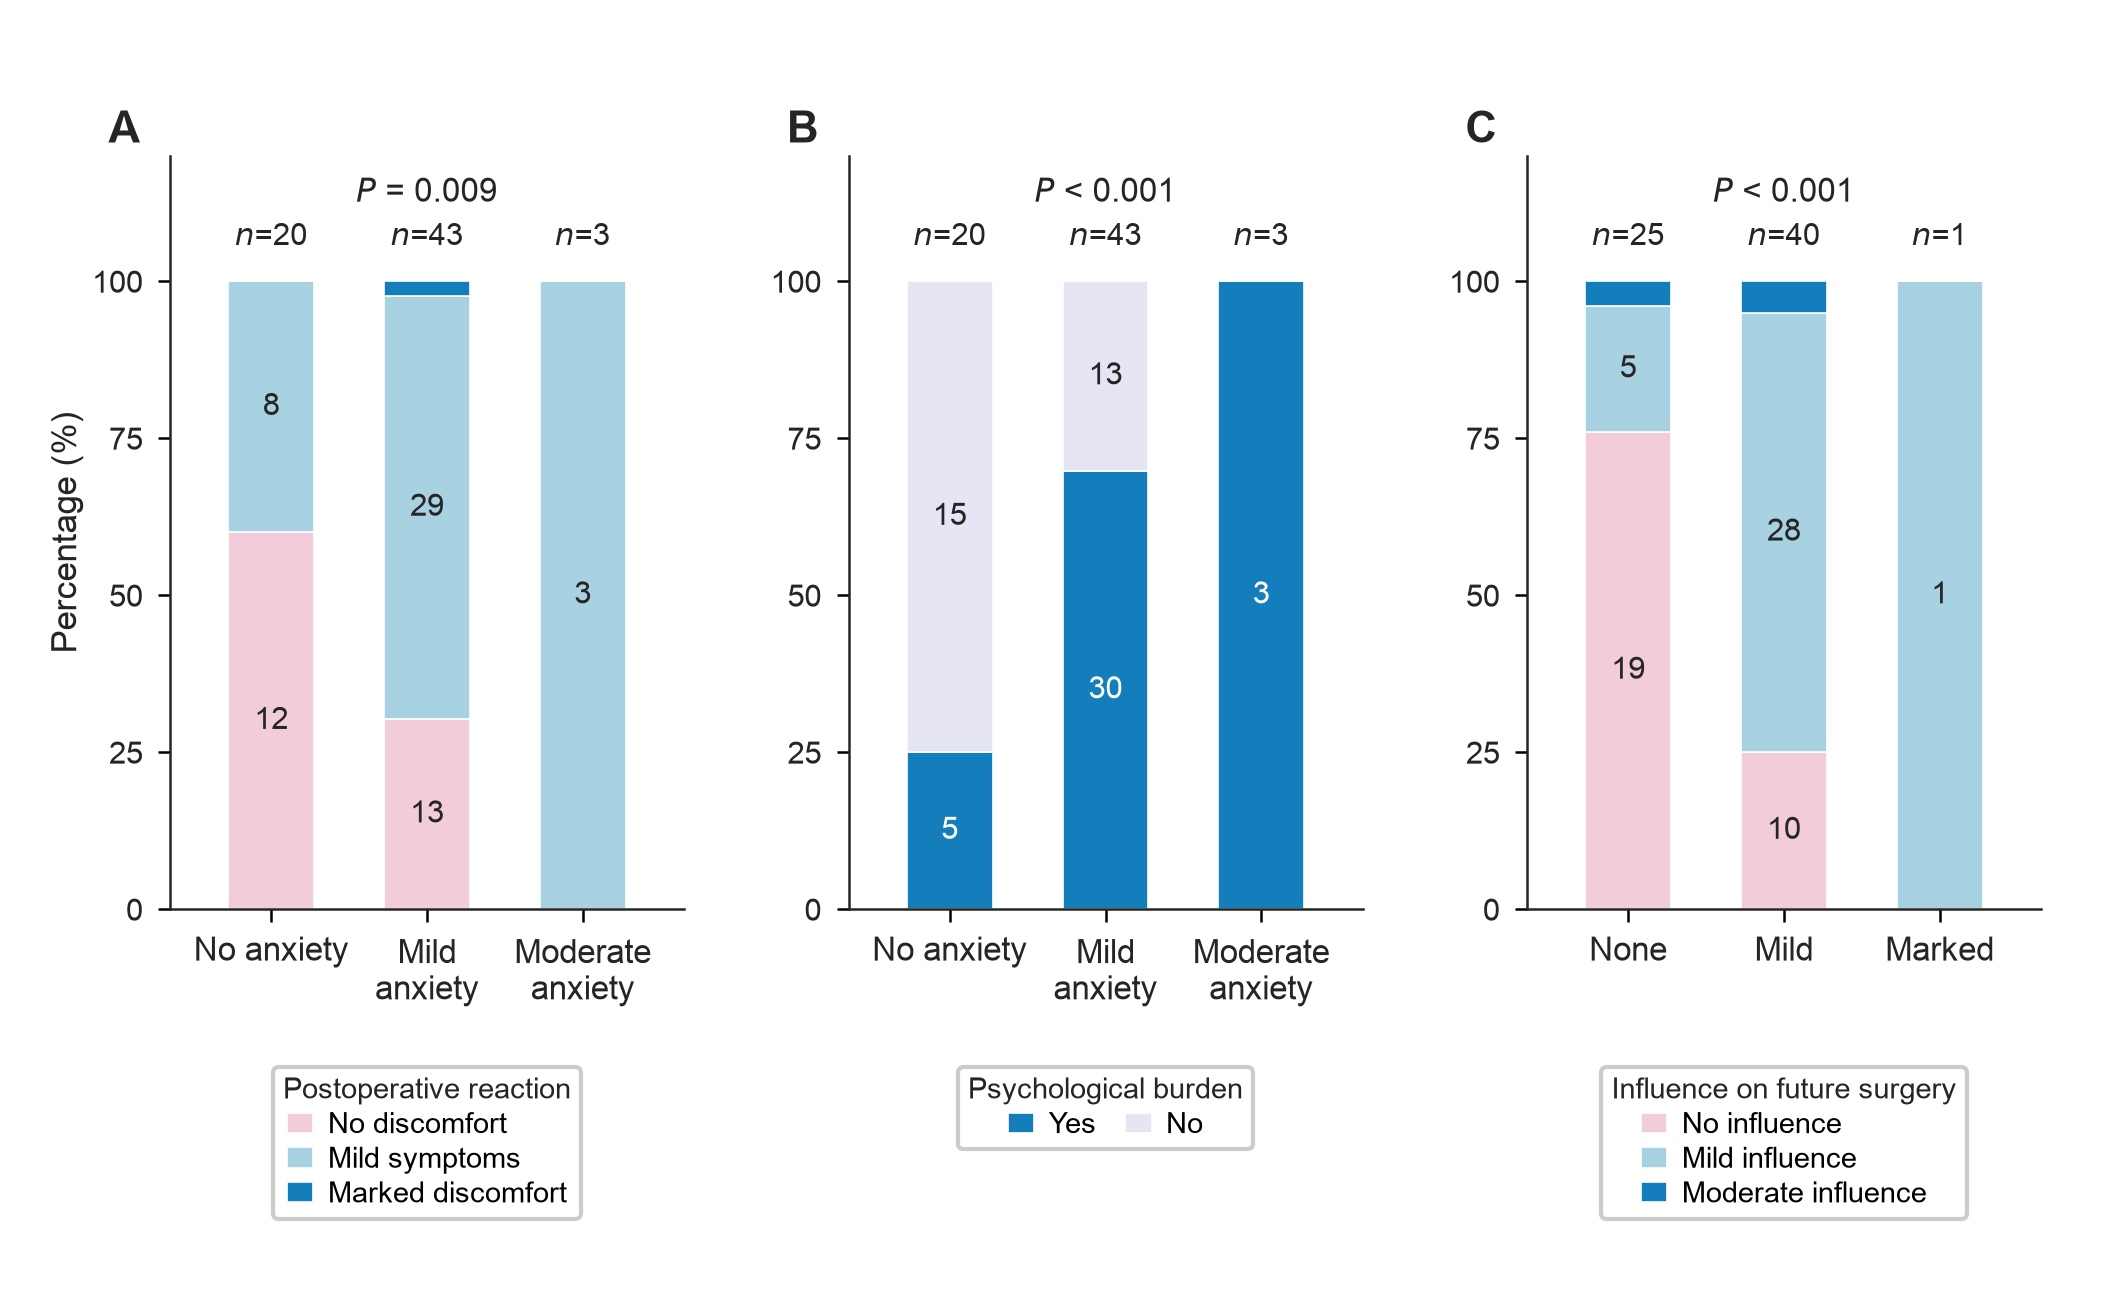
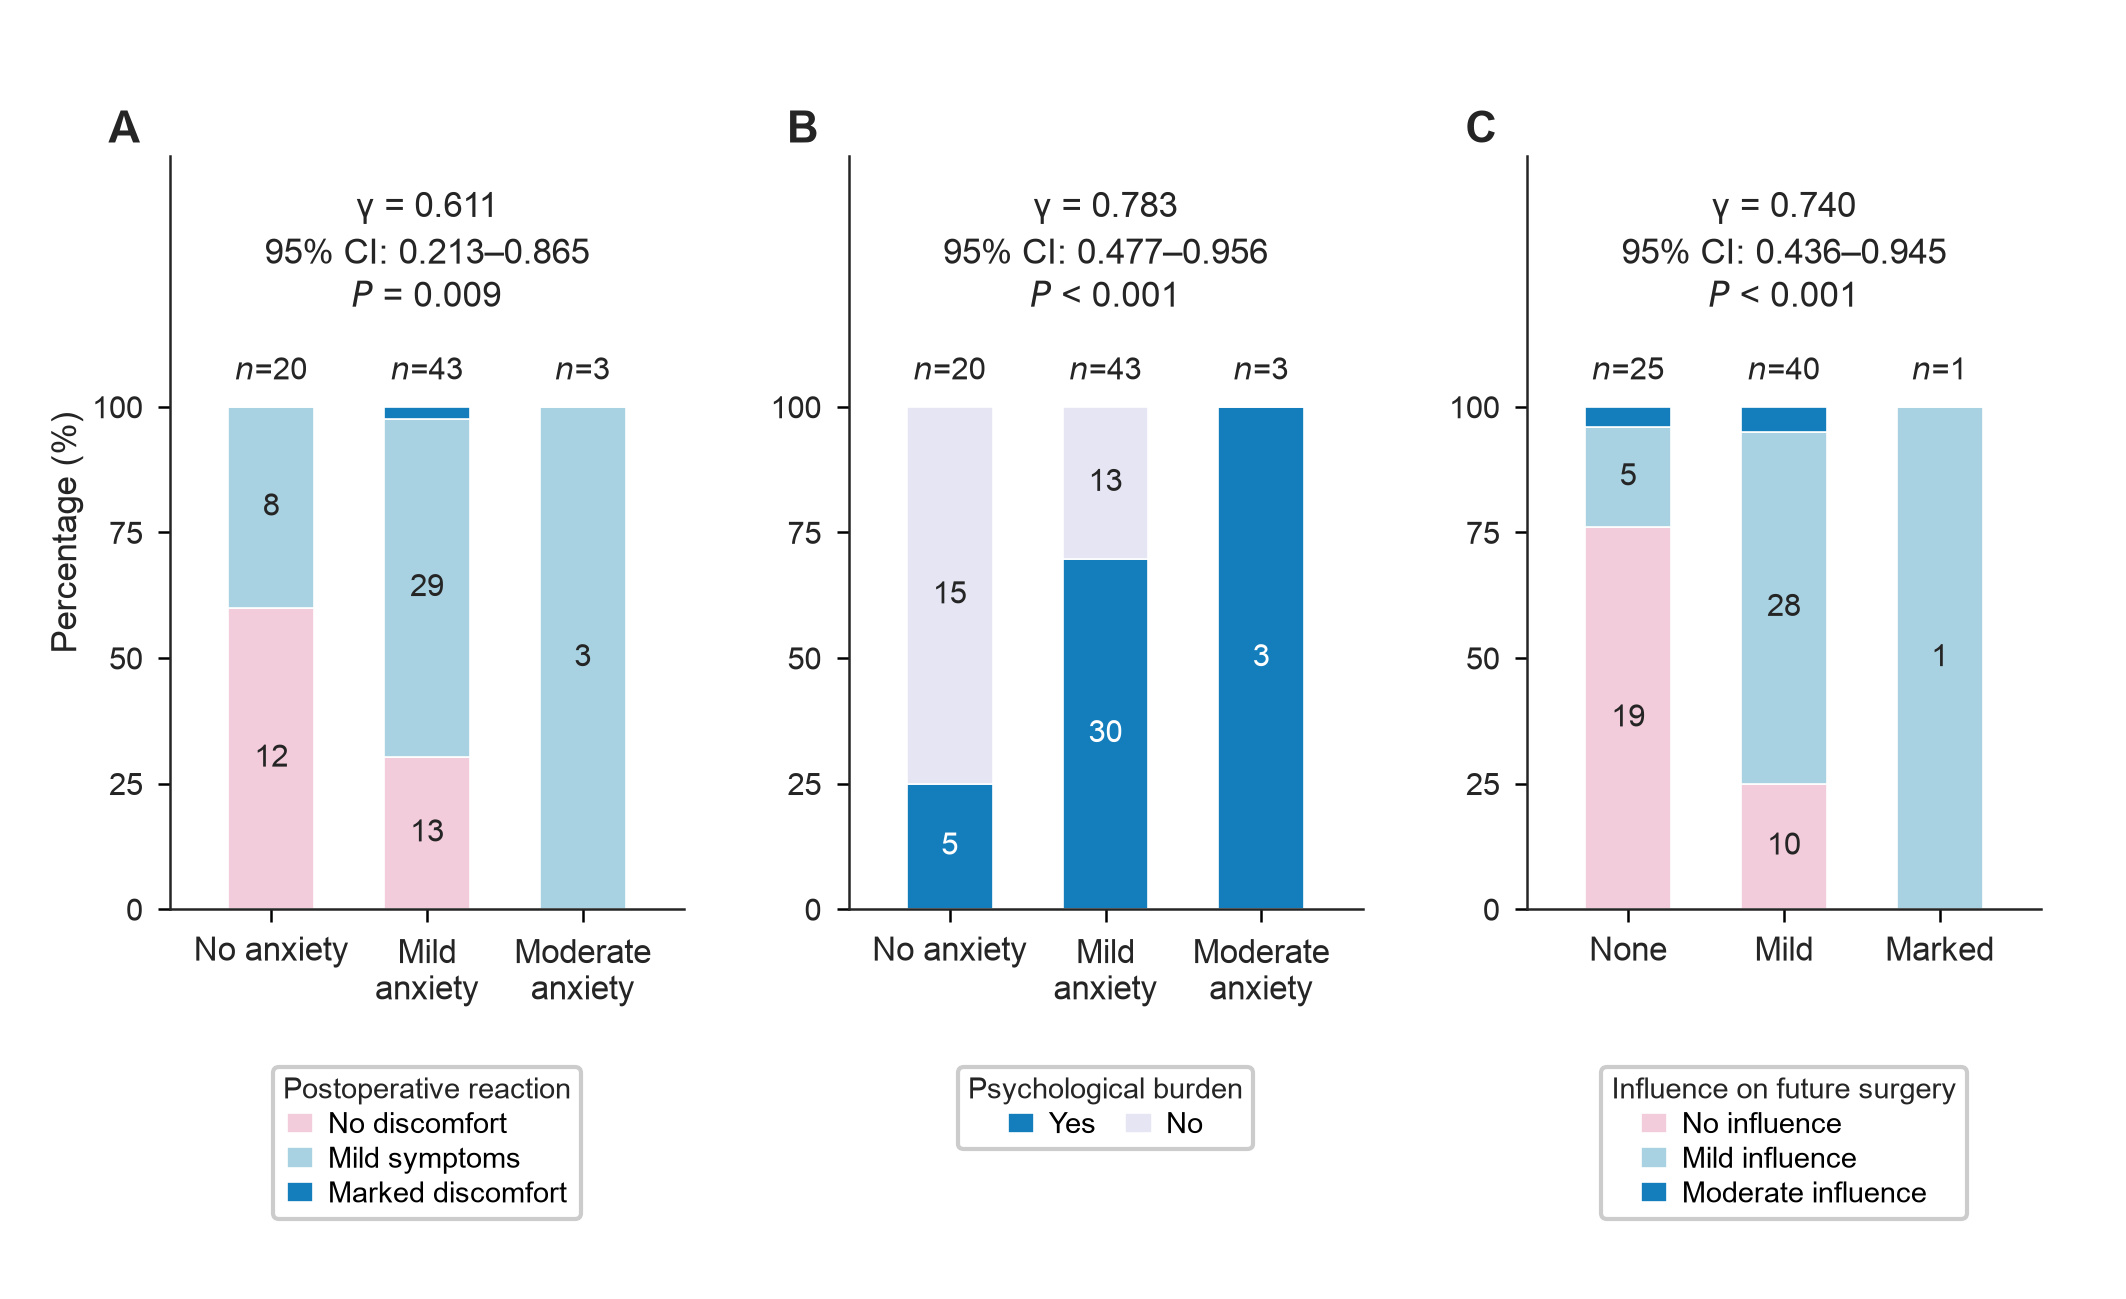
5、6改好了

diff --git a/currentversion/results/Figure_3.py b/currentversion/results/Figure_3.py
@@ -1,9 +1,12 @@
 import os
 import csv
 from collections import Counter
+import matplotlib
+matplotlib.use("Agg")
 import matplotlib.pyplot as plt
 import numpy as np
 from scipy.stats import chi2
+from ordinal_associations import gamma, bootstrap_ci, RANDOM_SEED
 
 # ==================== PARAMETERS ====================
 
@@ -21,6 +24,7 @@ DPI         = 300
 TARGET_W_PX = 2126
 
 LABELS = ['A', 'B', 'C']
+STAT_FONT_SIZE = 8.5
 
 # ==================== DATA LOADING ====================
 
@@ -90,6 +94,12 @@ def linear_by_linear_p(x, y):
 p_a = linear_by_linear_p(np.array(anx_score), np.array(post_score))
 p_b = linear_by_linear_p(np.array(anx_score), np.array(psych_score))
 p_c = linear_by_linear_p(np.array(post_score), np.array(fs_score))
+
+rng = np.random.default_rng(RANDOM_SEED)
+association_stats = []
+for x_scores, y_scores in [(anx_score, post_score), (anx_score, psych_score), (post_score, fs_score)]:
+    x_scores, y_scores = np.array(x_scores), np.array(y_scores)
+    association_stats.append((gamma(x_scores, y_scores), bootstrap_ci(x_scores, y_scores, rng)))
 
 # ==================== CROSS-TAB DATA ====================
 
@@ -193,18 +203,20 @@ for i, pn in enumerate(panels):
         ax.text(xi, 107, f'$n$={row_total}', ha='center', va='center',
                 fontsize=7.5, color=TEXT_CLR)
 
-    # --- p-value above n=XX labels, centered in panel ---
+    # --- Association estimates above the group totals ---
     p_val = pn['p']
     if p_val < 0.001:
         p_text = r'$P$ < 0.001'
     else:
         p_text = f'$P$ = {p_val:.3f}'
-    ax.text((n_rows - 1) / 2, 114, p_text, ha='center', va='center',
-            fontsize=8, color=TEXT_CLR)
+    gamma_value, ci = association_stats[i]
+    stats_text = f'γ = {gamma_value:.3f}\n95% CI: {ci[0]:.3f}–{ci[1]:.3f}\n{p_text}'
+    ax.text((n_rows - 1) / 2, 131, stats_text, ha='center', va='center',
+            fontsize=STAT_FONT_SIZE, linespacing=1.3, color=TEXT_CLR)
 
     # --- Axes formatting ---
     ax.set_xlim(-0.65, n_rows - 0.35)
-    ax.set_ylim(0, 120)
+    ax.set_ylim(0, 150)
     ax.set_xticks(x)
     ax.set_xticklabels(pn['row_labels'], fontsize=8, color=TEXT_CLR)
     ax.set_yticks([0, 25, 50, 75, 100])
@@ -245,8 +257,8 @@ for i, pn in enumerate(panels):
 
 # ==================== SAVE ====================
 
-out = os.path.join(os.path.dirname(os.path.abspath(__file__)), '..', 'figures', 'Figure_3.png')
-fig.savefig(out, dpi=DPI, format='png', facecolor=BG, edgecolor='none')
+out = os.path.join(os.path.dirname(os.path.abspath(__file__)), '..', 'figures', 'Figure_3.jpg')
+fig.savefig(out, dpi=DPI, format='jpeg', facecolor=BG, edgecolor='none', pil_kwargs={'quality': 95, 'subsampling': 0})
 plt.close()
 
 print(f'Saved {out}')

diff --git a/currentversion/results/Figure_2.py b/currentversion/results/Figure_2.py
@@ -26,7 +26,7 @@ FACTORS = [
     ('First periodontal surgery (Q7)', 'First periodontal surgery\n(yes vs no)'),
 ]
 RESULTS = Path(__file__).with_name('regression_results.json')
-OUTPUT = RESULTS.parent.parent / 'figures' / 'Figure_2.png'
+OUTPUT = RESULTS.parent.parent / 'figures' / 'Figure_2.jpg'
 
 # ==================== DATA ====================
 models = json.loads(RESULTS.read_text())['models']
@@ -87,6 +87,7 @@ fig.legend(handles=[
 
 # ==================== SAVE ====================
 OUTPUT.parent.mkdir(exist_ok=True)
-fig.savefig(OUTPUT, dpi=DPI, facecolor=BACKGROUND)
+fig.savefig(OUTPUT, dpi=DPI, format='jpeg', facecolor=BACKGROUND,
+            pil_kwargs={'quality': 95, 'subsampling': 0})
 plt.close(fig)
 print(f'Saved {OUTPUT}')

diff --git a/currentversion/results/Figure_1.py b/currentversion/results/Figure_1.py
@@ -199,7 +199,7 @@ ax.set_ylim(0.12, 0.98)
 
 # ==================== SAVE ====================
 
-out = os.path.join(os.path.dirname(os.path.abspath(__file__)), '..', 'figures', 'Figure_1.png')
-fig.savefig(out, dpi=DPI, format='png', facecolor=BG, edgecolor='none')
+out = os.path.join(os.path.dirname(os.path.abspath(__file__)), '..', 'figures', 'Figure_1.jpg')
+fig.savefig(out, dpi=DPI, format='jpeg', facecolor=BG, edgecolor='none', pil_kwargs={'quality': 95, 'subsampling': 0})
 plt.close()
 print(f'Saved {out}')

diff --git a/currentversion/manuscript.md b/currentversion/manuscript.md
@@ -83,7 +83,7 @@ Overall, 93.94% of patients reported learning about the surgery before treatment
 
 Women accounted for 65.15% of the sample, patients aged 18–44 years for 59.09%, patients with bachelor's or postgraduate education for 75.76%, patients with regular dental checkups for 75.76%, and patients reporting their first periodontal surgery for 68.18%. Original-category distributions are shown in Table 3. The crude education trend estimate was OR = 1.57 (95% CI: 0.85–2.89, *P* =  0.151). Other factors with finite ordinary regression estimates had crude overall *P* values >0.05; marital status and insurance had sparse categories causing separation.
 
-After age and sex adjustment, the education trend estimate was OR = 2.50 (95% CI: 1.11–5.63, *P* =  0.026). The Firth sensitivity estimate was OR = 2.24 (95% CI: 1.11–5.20, *P* =  0.022). The education model included 30 events and four predictor parameters, giving EPV = 7.50. Adjusted models for other factors had overall *P* values >0.05, including marital status (Firth *P* =  0.789) and insurance (Firth *P* =  0.317). The commercial-insurance comparison with self-payment had Firth OR = 18.94 (95% CI: 1.11–2925.95, *P* =  0.042; *n*= 2 in the commercial-insurance category). Income was missing for 14 of 66 patients (21.2%). In the sensitivity analysis retaining these patients as a separate category, the overall income test yielded *P* = 0.643; the missing-income category had adjusted OR = 0.38 (95% CI: 0.06–1.86, *P* = 0.239) relative to <150,000 CNY (Supplementary Material S4, Table S4). Crude and adjusted estimates for the five trend or binary target factors are shown in Figure 2; all estimates, sensitivity analyses, and EPV values are reported in Supplementary Material S4.
+After age and sex adjustment, the education trend estimate was OR = 2.50 (95% CI: 1.11–5.63, *P* =  0.026). The Firth sensitivity estimate was OR = 2.24 (95% CI: 1.11–5.20, *P* =  0.022). The education model included 30 events and four predictor parameters, giving EPV = 7.50. Adjusted models for other factors had overall *P* values >0.05, including marital status (Firth *P* =  0.789) and insurance (Firth *P* =  0.317). Income was missing for 14 of 66 patients (21.2%). In the sensitivity analysis retaining these patients as a separate category, the overall income test yielded *P* = 0.643; the missing-income category had adjusted OR = 0.38 (95% CI: 0.06–1.86, *P* = 0.239) relative to <150,000 CNY (Supplementary Material S4, Table S4). Crude and adjusted estimates for the five trend or binary target factors are shown in Figure 2; all estimates, sensitivity analyses, and EPV values are reported in Supplementary Material S4.
 
 **Associations among perioperative experiences and reported decision-making influences**
 
@@ -225,7 +225,7 @@ Figure 1. Flowchart of sample selection. Among 2,876 patients who received perio
 
 Figure 2. Crude and adjusted associations with professional information seeking. Open and filled circles indicate crude and adjusted ORs, respectively; horizontal lines indicate 95% CIs, and the dashed line indicates OR = 1. Each adjusted model includes one target factor, original age categories, and sex; target factors are not mutually adjusted. ORs for education, income, and time since first dental treatment represent a one-category increase; the other two comparisons are yes versus no. Income models include 52 patients; the other models include 66. Complete results for marital status, insurance, and Firth sensitivity analyses are provided in Supplementary Material S4.
 
-Figure 3. Ordinal associations among perioperative experiences and future surgery decisions. A: Preoperative anxiety and postoperative reactions. B: Preoperative anxiety and the influence of psychological burden on surgical choice. C: Postoperative reactions and the influence on future surgery decisions. Stacked bars show percentages; numbers inside and above bars indicate counts and group totals, respectively. Unadjusted *P* values are from linear-by-linear association tests; γ denotes the Goodman–Kruskal gamma coefficient and quantifies the direction and strength of each association.
+Figure 3. Ordinal associations among perioperative experiences and future surgery decisions. A: Preoperative anxiety and postoperative reactions. B: Preoperative anxiety and the influence of psychological burden on surgical choice. C: Postoperative reactions and the influence on future surgery decisions. Stacked bars show percentages; numbers inside and above bars indicate counts and group totals, respectively. Unadjusted *P* values are from linear-by-linear association tests; γ denotes the Goodman–Kruskal gamma coefficient and quantifies the direction and strength of each association. The 95% CIs for γ were obtained from 10,000 patient-level bootstrap samples.
 
 **Tables**
 

diff --git a/currentversion/respond_to_reviewer1.md b/currentversion/respond_to_reviewer1.md
@@ -143,6 +143,11 @@ PubMed: https://pubmed.ncbi.nlm.nih.gov/6590605/
 
 **这是一项建议，而非必须满足的条件。**
 
+
+【
+感谢审稿人的建议。正文 Results 中商业保险类别的具体效应估计已删除，仅保留保险变量的整体检验结果（Firth P = 0.317）。商业保险与自费的比较结果（Firth OR = 18.94，95% CI：1.11–2925.95）继续完整保留于 Supplementary Material S4 的 Table S2，表注同时说明该类别仅有2名患者，置信区间极宽，相关比较属于探索性分析。这一调整保留了结果报告的完整性，并减少了正文中突出呈现低精度估计所带来的过度解读风险。
+】
+
 ### 6. 图3的各个子图
 
 目前，图注已经说明 γ（gamma）用于量化各项关联的强度。
@@ -153,6 +158,10 @@ PubMed: https://pubmed.ncbi.nlm.nih.gov/6590605/
 
 - 在每个子图中增加 γ 值及其置信区间（CI）；
 - 或者在图注中注明，相关系数已在 Results（结果）正文中报告。
+
+【
+感谢审稿人的建议。图3已重新绘制，在A、B、C各子图中分别增加了 Goodman–Kruskal γ及其95% CI，并保留原有*P*值。图注也补充说明，γ的95% CI通过10,000次患者层面 bootstrap 重抽样获得。图中数值与 Results 正文一致，使读者能够直接从各子图了解关联的方向、强度及估计的不确定性。
+】
 
 ### 7. 你们列为待完成的事项
 
